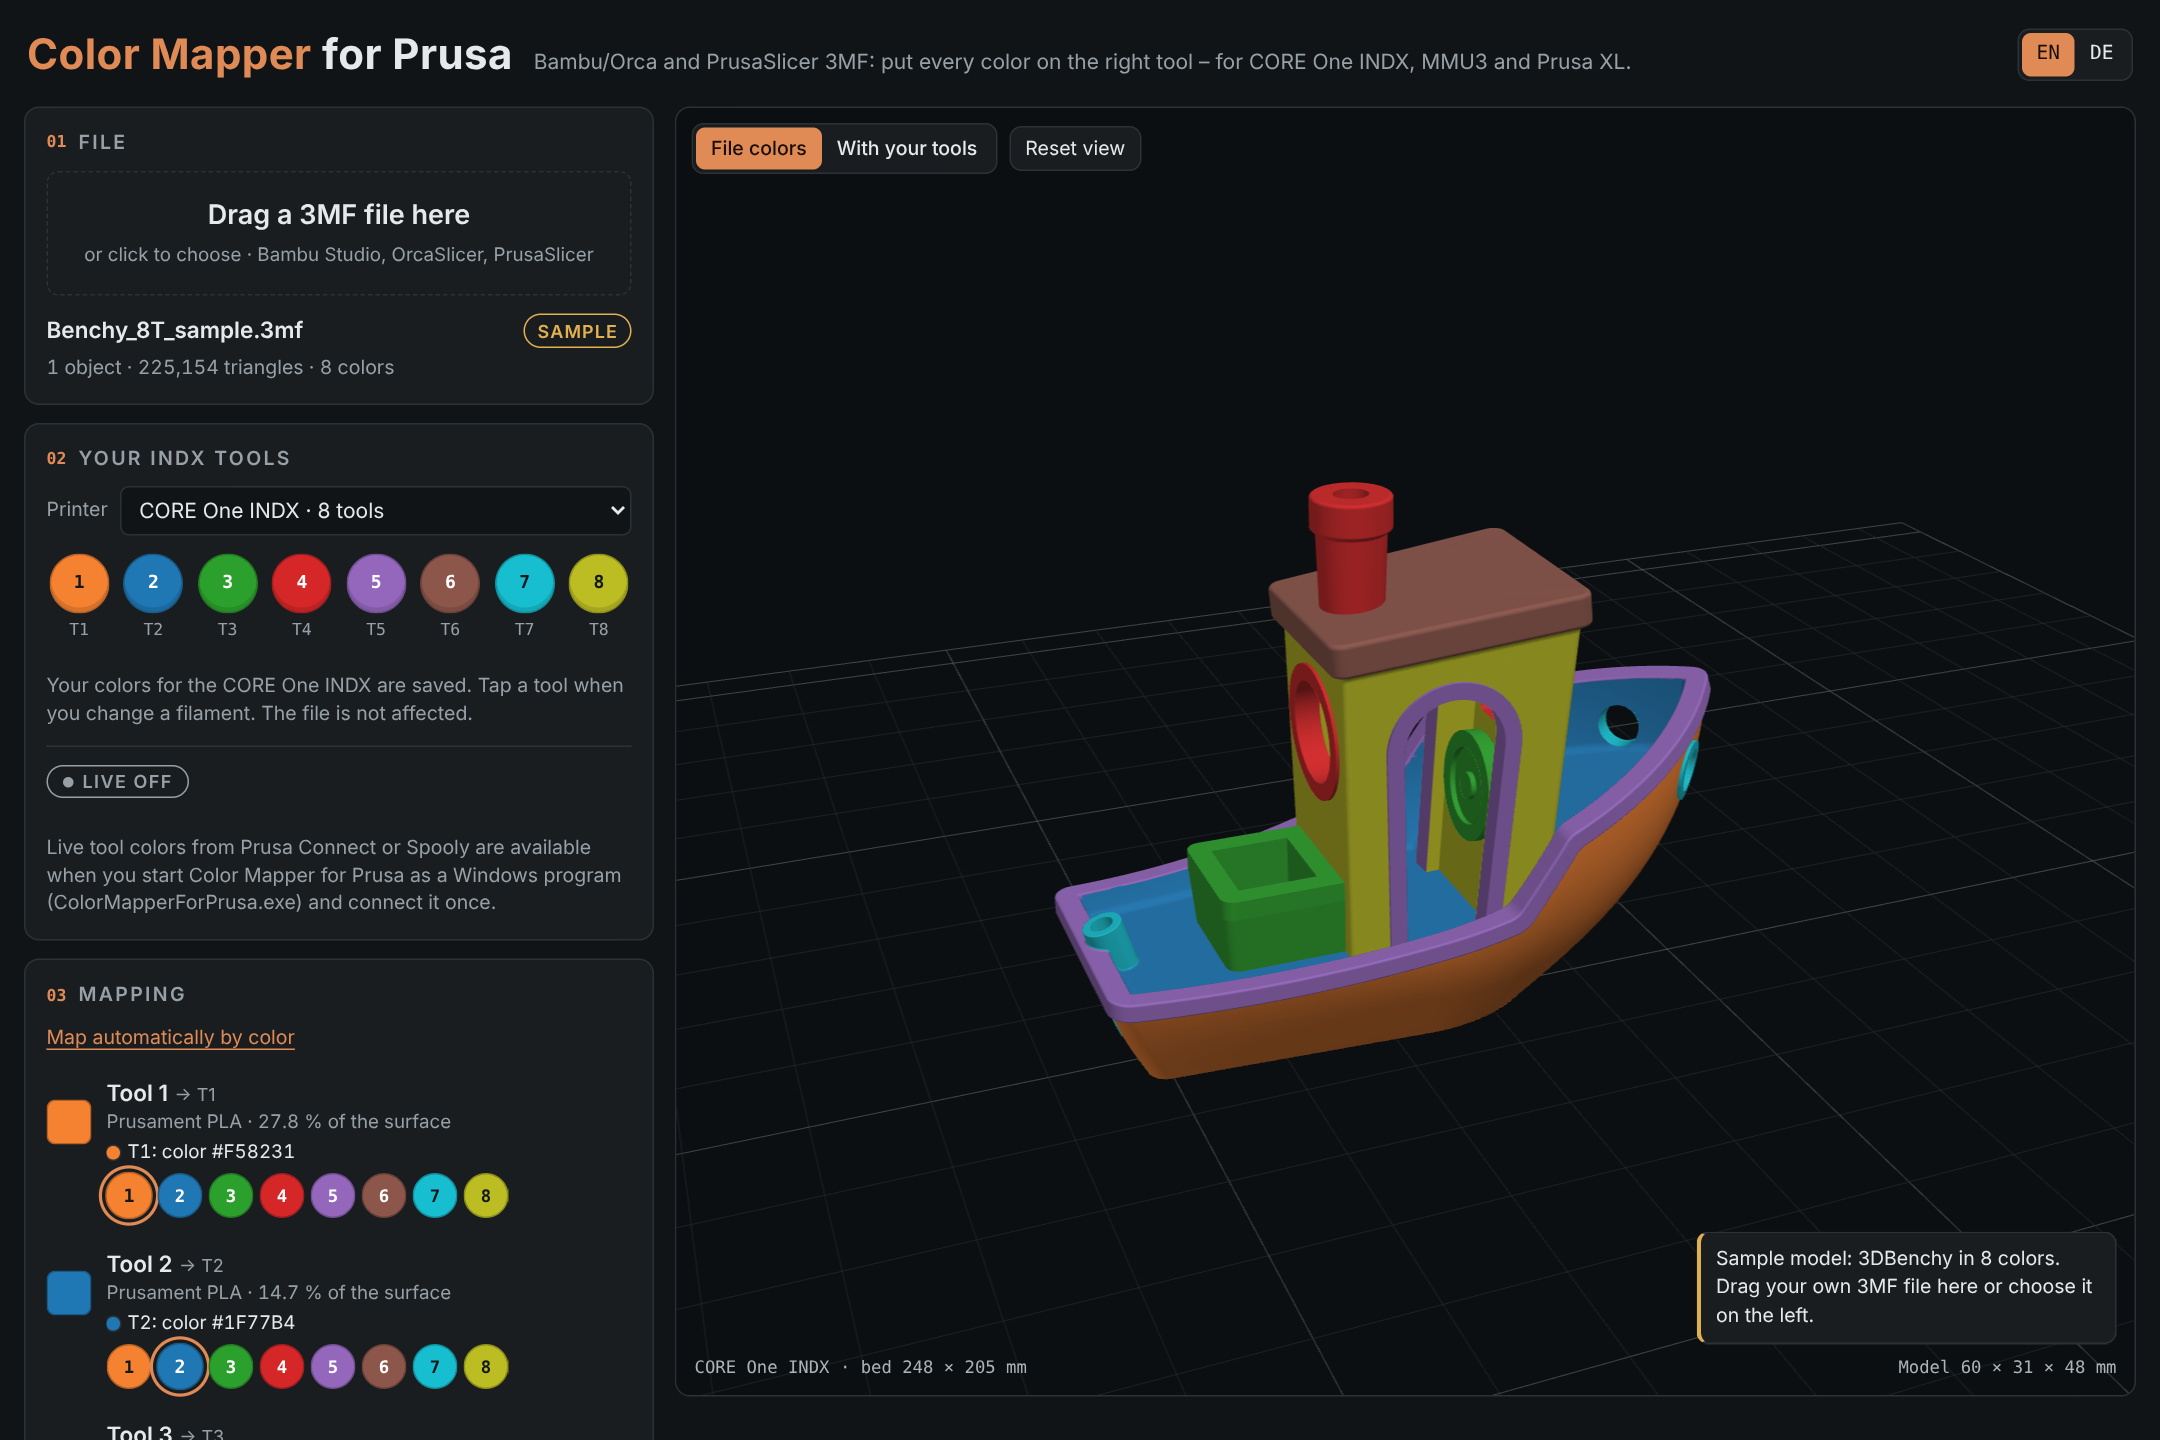
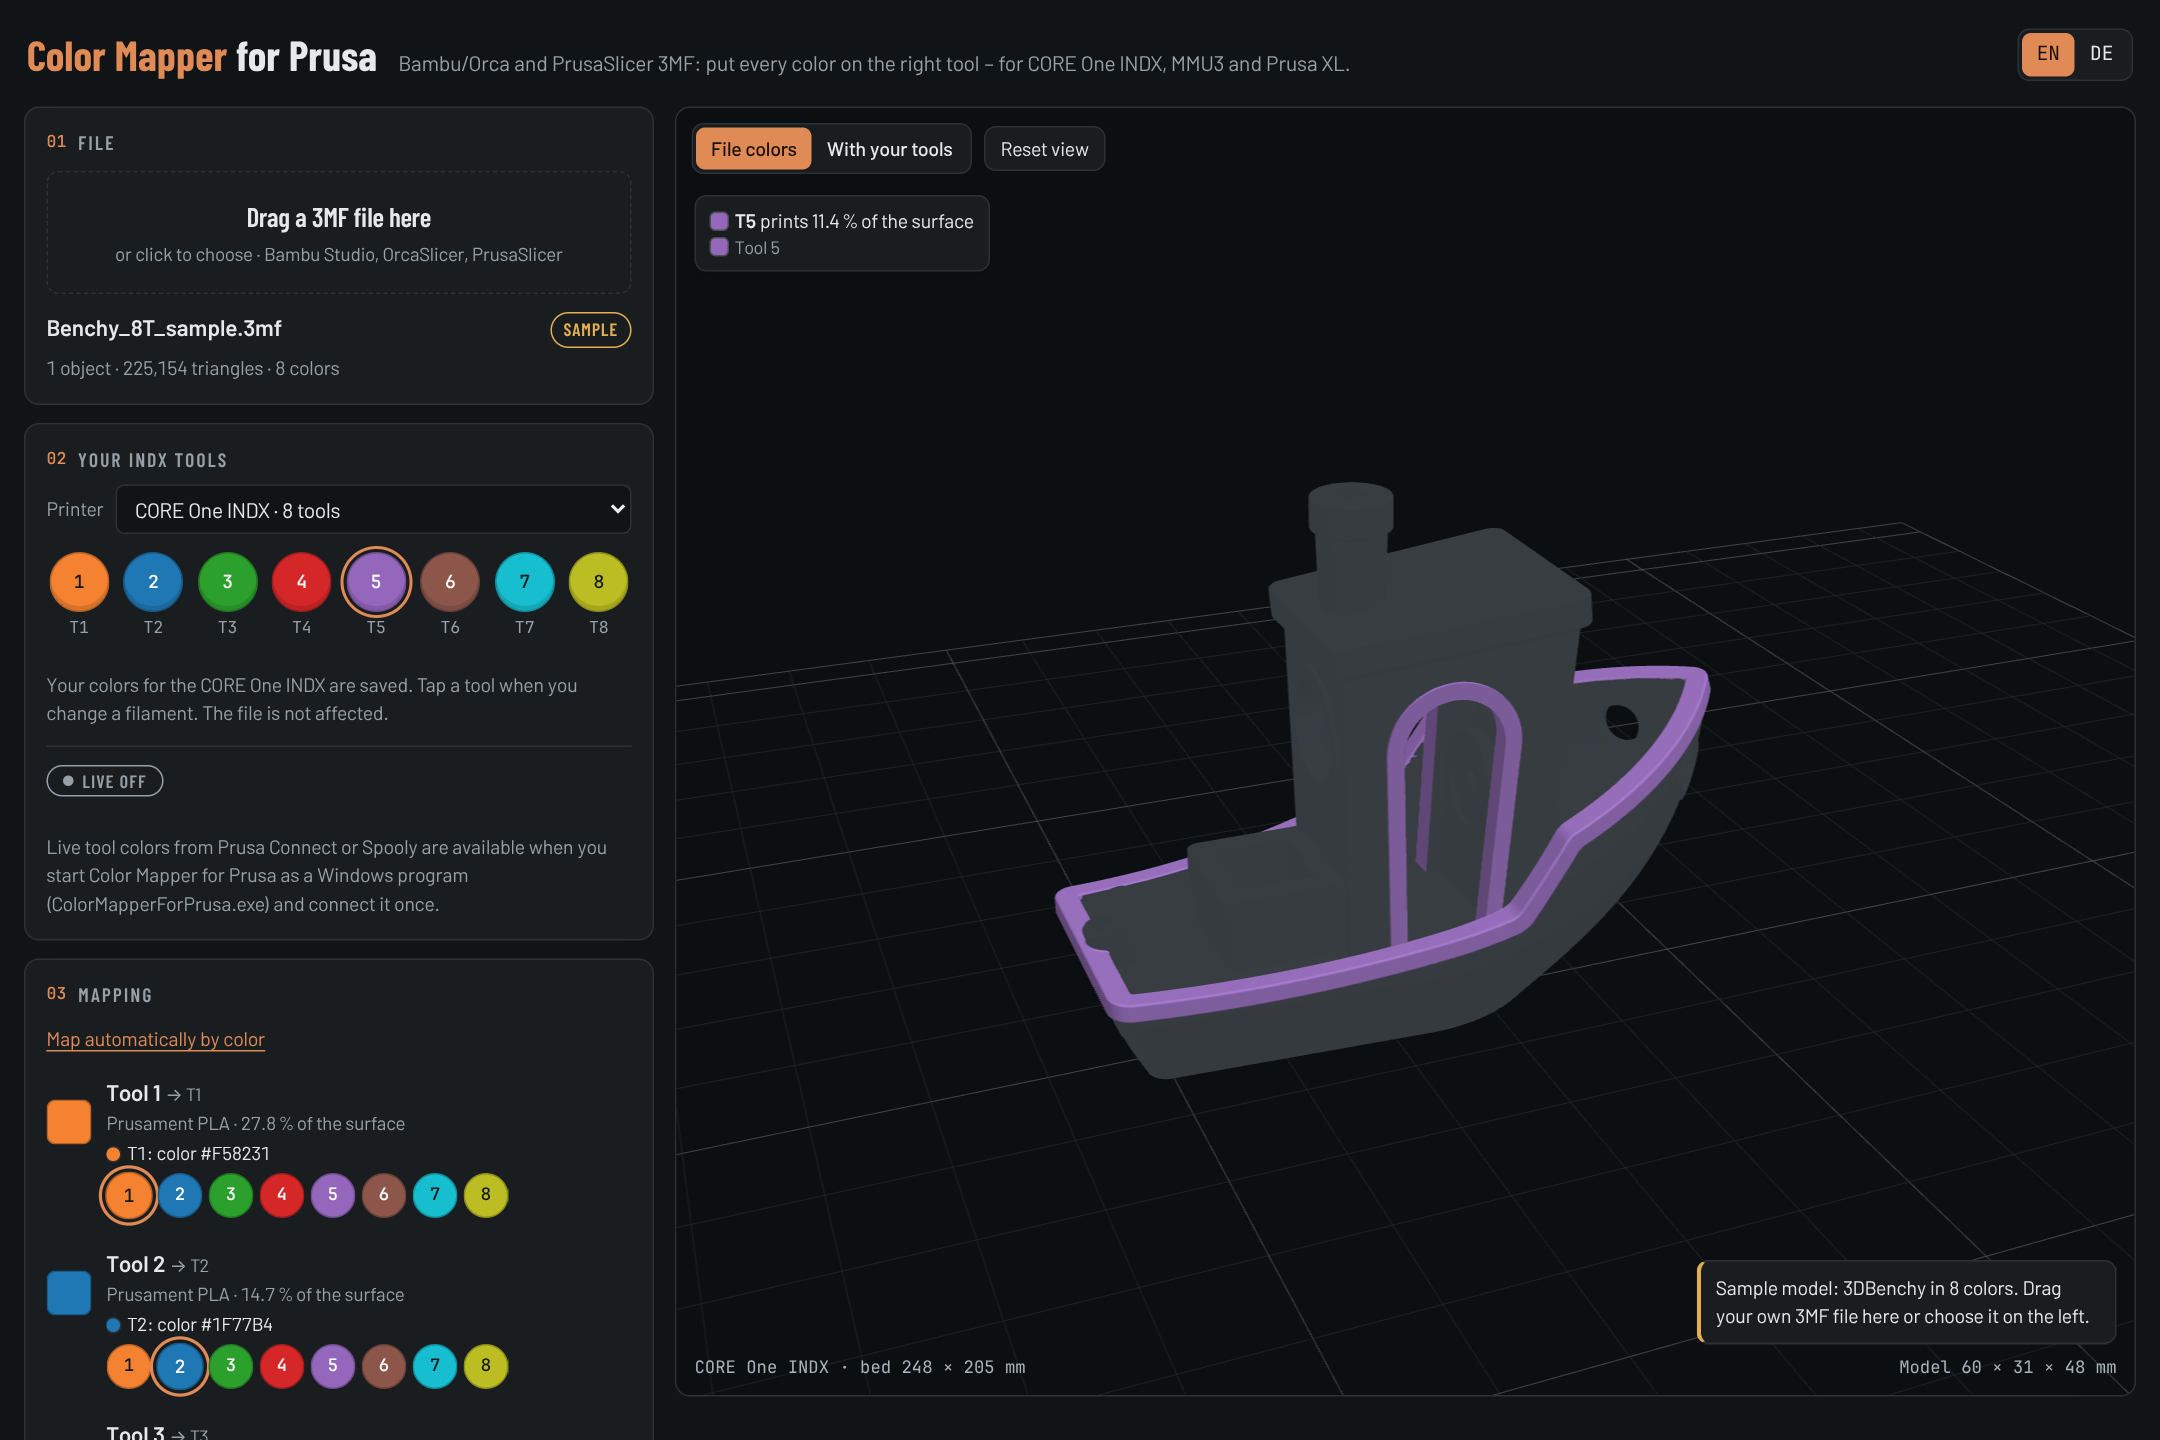
README screenshots: highlight one tool, original fonts
Claude-Session: https://claude.ai/code/session_01XiUPJFWm3fwv1rHjD5Hjyr

diff --git a/README.de.md b/README.de.md
@@ -11,7 +11,7 @@ Du hast ein bemaltes Modell für Bambu Studio, OrcaSlicer oder PrusaSlicer gefun
 
 <picture>
   <source media="(prefers-color-scheme: dark)" srcset="docs/screenshot-de-dark.png">
-  <img alt="Farb-Mapper für Prusa mit dem 8-farbigen 3DBenchy als Beispiel, jede Farbe auf ihrem Tool" src="docs/screenshot-de.png">
+  <img alt="Farb-Mapper für Prusa mit dem 8-farbigen 3DBenchy als Beispiel – mit der Maus auf T5 bleiben nur dessen Flächen farbig" src="docs/screenshot-de.png">
 </picture>
 
 ## Funktionen

diff --git a/README.md b/README.md
@@ -11,7 +11,7 @@ You found a painted model for Bambu Studio, OrcaSlicer or PrusaSlicer, but its c
 
 <picture>
   <source media="(prefers-color-scheme: dark)" srcset="docs/screenshot-dark.png">
-  <img alt="Color Mapper for Prusa with the 8-color 3DBenchy sample, every color on its own tool" src="docs/screenshot.png">
+  <img alt="Color Mapper for Prusa with the 8-color 3DBenchy sample – hovering tool T5 shows only the areas it prints" src="docs/screenshot.png">
 </picture>
 
 ## Features
